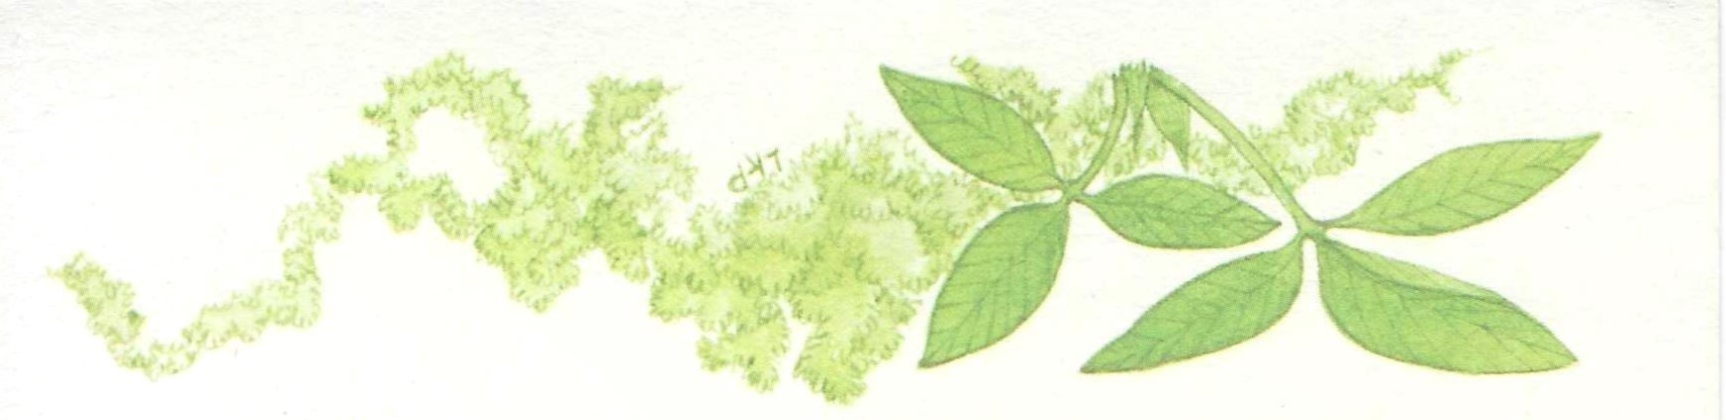
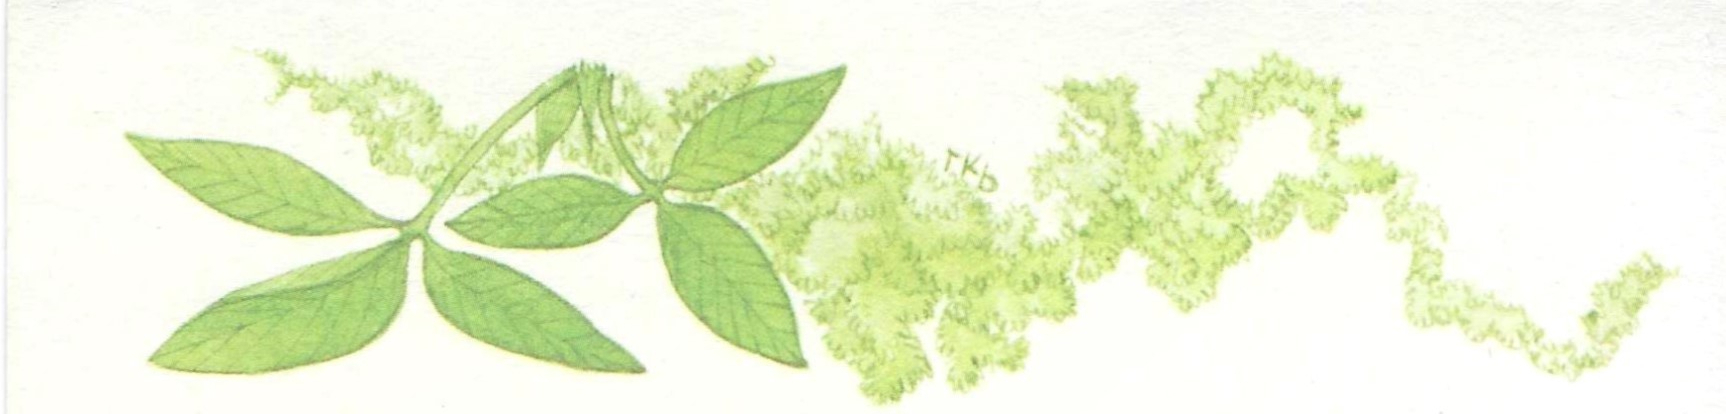
about page content

diff --git a/src/components/Home/Home.js b/src/components/Home/Home.js
@@ -1,36 +1,39 @@
 import './Home.css';
-import { fish, ladybug, embroideredstar, strawberry, lunamoth, whiteRabbit, daisiesBottom } from '../../assets/assets.js';
+import { fish, ladybug, embroideredstar, strawberry, lunamoth, whiteRabbit, daisies, daisiesBottomFlipped } from '../../assets/assets.js';
 
 export default function Home(){
     return(
-        <div className='container'>
-            <div className='headerText'>
-                <h1 id='title'>grace manning</h1>
-                <h2 id='tagline'>[tagline]</h2>
+        <div>
+            <img className='backgroundImg' src={daisies} alt='two daisies with smaller purple blooms and surrounding greenery' />
+            <div className='container homeContainer'>
+                <div className='headerText'>
+                    <h1 id='title'>grace manning</h1>
+                    <h2 id='tagline'>[tagline]</h2>
+                </div>
+                <a className='navButton' id='aboutButton' href='/about'>
+                    <img className='navImage' id='fishImage' src={fish} alt='silver fish with blue and yellow accents' />
+                    <p className='navText'>about</p>
+                </a>
+                <a className='navButton' id='projectsButton' href='/projects'>
+                    <img className='navImage' id='ladybugImage' src={ladybug} alt='' />
+                    <p className='navText'>projects</p>
+                </a>
+                <a className='navButton' id='exploreButton' href='/explore'>
+                    <img className='navImage' src={embroideredstar} alt='' />
+                    <p className='navText'>explore</p>
+                </a>
+                <a className='navButton' id='youtubeButton' href='/'>
+                    <img className='navImage' src={strawberry} alt='' />
+                    <p className='navText'>youtube</p>
+                </a>
+                <a className='navButton' id='instagramButton' href='/'>
+                    <img className='navImage' id='lunamothImage' src={lunamoth} alt='' />
+                    <p className='navText'>instagram</p>
+                </a>
+                <h2 id='contactText'>contact [at] graceis [dot] online</h2>
+                <img className='bottomBackgroundImages' id='daisiesBottom' src={daisiesBottomFlipped} alt='' />
+                <img className='bottomBackgroundImages' id='whiteRabbit' src={whiteRabbit} alt='' />
             </div>
-            <a className='navButton' id='aboutButton' href='/about'>
-                <img className='navImage' id='fishImage' src={fish} alt='silver fish with blue and yellow accents' />
-                <p className='navText'>about</p>
-            </a>
-            <a className='navButton' id='projectsButton' href='/projects'>
-                <img className='navImage' id='ladybugImage' src={ladybug} alt='' />
-                <p className='navText'>projects</p>
-            </a>
-            <a className='navButton' id='exploreButton' href='/explore'>
-                <img className='navImage' src={embroideredstar} alt='' />
-                <p className='navText'>explore</p>
-            </a>
-            <a className='navButton' id='youtubeButton' href='/'>
-                <img className='navImage' src={strawberry} alt='' />
-                <p className='navText'>youtube</p>
-            </a>
-            <a className='navButton' id='instagramButton' href='/'>
-                <img className='navImage' id='lunamothImage' src={lunamoth} alt='' />
-                <p className='navText'>instagram</p>
-            </a>
-            <h2 id='contactText'>contact [at] graceis [dot] online</h2>
-            <img className='backgroundImages' id='daisiesBottom' src={daisiesBottom} alt='' />
-            <img className='backgroundImages' id='whiteRabbit' src={whiteRabbit} alt='' />
         </div>
     )
 }

diff --git a/src/components/About/About.js b/src/components/About/About.js
@@ -1,9 +1,78 @@
 import './About.css';
+import { daisiesFlipped, daisiesBottom, envelope } from '../../assets/assets';
+
+let skills = [
+    {
+        title: 'visual',
+        list: ['touchdesigner']
+    },
+    {
+        title: 'design',
+        list: ['figma', 'photoshop']
+    },
+    {
+        title: 'web dev',
+        list: ['html', 'css', 'javascript', 'typescript', 'react', 'angular']
+    },
+    {
+        title: 'app dev',
+        list: ['flutter/dart', 'android studio', 'xcode']
+    },
+    {
+        title: 'other',
+        list: ['python', 'c++', 'c', 'java', 'racket']
+    },
+    {
+        title: 'data',
+        list: ['mysql', 'postgresql', 'mongodb', 'redis']
+    },
+    {
+        title: 'tools',
+        list: ['git/github', 'aws', 'squarespace', 'wordpress']
+    }
+]
+
+let likes = ['web development', 'like1', 'this is another', 'short', 'this is a long one'];
 
 export default function About(){
     return(
-        <div className='container'>
-            <h1>about page</h1>
+        <div>
+            <img className='backgroundImg flipped' id='daisies' src={daisiesFlipped} alt='two daisies with smaller purple blooms and surrounding greenery' />
+            <img className='bottomBackgroundImages' id='daisiesBottom' src={daisiesBottom} alt='' />
+            <div className='container aboutContainer'>
+                <div className='aboutText'>
+                    <h2>about me</h2>
+                    <h1>grace manning</h1>
+                    <p style={{marginTop: '10px'}}>
+                        Lorem ipsum dolor sit amet, consectetur adipiscing elit. Mauris sit amet pulvinar nibh. Curabitur scelerisque orci et scelerisque sollicitudin.
+                    </p>
+                </div>
+                <div className='aboutText emailBox'>
+                    <img id='envelope' src={envelope} />
+                    <p id='aboutEmail'>
+                        <b>contact [at] graceis [dot] online</b>
+                    </p>
+                </div>
+                <div className='aboutText'>
+                    <h3>my favorite things include:</h3>
+                    <ul id='likes'>
+                        {likes.map(like => <li key={like}>{like}</li>)}
+                    </ul>
+                </div>
+                <div className='aboutText'>
+                    <h3>what i can do:</h3>
+                    {skills.map((item) =>{
+                    return(
+                        <div className='skills' key={item.title}>
+                            <p style={{padding: '0px'}}>{item.title}</p>
+                            <ul className='skillsList'>
+                                {item.list.map(skill => <li key={skill}>{skill}</li>)}
+                            </ul>
+                        </div>
+                    )
+                    })}
+                </div>
+            </div>
         </div>
     )
 }

diff --git a/src/components/About/About.css b/src/components/About/About.css
@@ -1,0 +1,99 @@
+.aboutContainer{
+    font-family: "Lacquer", system-ui;
+    text-align: left;
+    width: 70vw;
+}
+
+.aboutText{
+    margin-left: 40px;
+    margin-top: 20px;
+    margin-bottom: 20px;
+    width: 80%;
+}
+
+.emailBox{
+    display: flex;
+    flex-direction: row;
+    align-items: center;
+    border-radius: 10px;
+    padding: 10px;
+    background-color: #ECD5E5;
+    width: fit-content;
+}
+
+#envelope{
+    width: 70px;
+    transform: rotate(-10deg);
+    margin-right: 5px;
+}
+
+#aboutEmail{
+    font-size: 28px;
+}
+
+.aboutText h1{
+    font-size: 50px;
+    margin: 0px;
+}
+
+.aboutText h2{
+    font-size: 30px;
+    margin: 0px;
+}
+
+.aboutText h3{
+    font-size: 28px;
+    margin: 0px;
+}
+
+.aboutText p{
+    font-size: 22px;
+    margin: 0px;
+}
+
+.aboutText ul{
+    list-style-type: none;
+    padding: 0px;
+    margin: 5px 0px;
+
+    display: flex;
+    flex-direction: row;
+    flex-wrap: wrap;
+}
+
+.aboutText li{
+    font-size: 22px;
+    width: fit-content;
+    
+    border-radius: 10px;
+    padding: 5px;
+    margin: 0px 5px 5px 0px;
+}
+
+.skills{
+    display: flex;
+    flex-direction: row;
+    align-items: center;
+}
+
+.skills p{
+    margin-right: 10px;
+}
+
+.skillsList li{
+    border: 1px solid black;
+}
+
+#likes li{
+    background-color: #DCE7B2;
+}
+
+#daisies{
+    width: 50%;
+}
+
+#daisiesBottom{
+    width: 45%;
+    right: auto;
+    left: 0;
+}

diff --git a/src/assets/assets.js b/src/assets/assets.js
@@ -5,14 +5,19 @@ import strawberry from './strawberry.png';
 import lunamoth from './lunamoth.png';
 import newspaper from './newspaper.jpg';
 import daisies from './daisies.jpg';
+import daisiesFlipped from './daisiesFlipped.jpg';
 import daisiesBottom from './daisiesBottom.jpg';
+import daisiesBottomFlipped from './daisiesBottomFlipped.jpg';
 import whiteRabbit from './white-rabbit.png';
+import envelope from './envelope.png';
 
 export{
     // BACKGROUND IMAGE
     newspaper,
     daisies,
+    daisiesFlipped,
     daisiesBottom,
+    daisiesBottomFlipped,
     whiteRabbit,
 
     // HOME PAGE ICONS
@@ -21,5 +26,8 @@ export{
     embroideredstar,
     strawberry,
     lunamoth,
+
+    // ABOUT PAGE
+    envelope
     
 }

diff --git a/src/App.js b/src/App.js
@@ -1,5 +1,4 @@
 import './App.css';
-import { daisies } from './assets/assets';
 import { Routes, Route } from 'react-router-dom';
 import Home from './components/Home/Home';
 import About from './components/About/About';
@@ -13,7 +12,6 @@ function App() {
         <Route path="/about" element={<About/>} />
         <Route path="*" element={<PageNotFound/>} />
       </Routes>
-      <img className='backgroundImg' src={daisies} alt='two daisies with smaller purple blooms and surrounding greenery' />
     </div>
   );
 }

diff --git a/src/index.css b/src/index.css
@@ -13,12 +13,33 @@ body {
   margin: 0;
   width: 100vw;
   height: 100vh;
+  overflow-x: hidden;
 }
 
 .container{
   position: absolute;
   z-index: 1;
-  width: 100vw;
-  height: 100vh;
-  overflow: hidden;
+  min-width: 100vw;
+  min-height: 100vh;
+}
+
+.backgroundImg{
+  position: absolute;
+  z-index: 0;
+  top: 0;
+  left: 0;
+  height: 100%;
+  opacity: 0.6;
+}
+
+.flipped{
+  left: auto;
+  right: 0;
+}
+
+.bottomBackgroundImages{
+  z-index: 0;
+  position: absolute;
+  right: 0;
+  bottom: 0;
 }

diff --git a/src/components/Home/Home.css b/src/components/Home/Home.css
@@ -1,3 +1,7 @@
+.homeContainer{
+    overflow: hidden;
+}
+
 .headerText{
     position: absolute;
     top: 10%;
@@ -90,13 +94,6 @@
     position: absolute;
     bottom: 40px;
     font-size: 30px;
-}
-
-.backgroundImages{
-    z-index: 0;
-    position: absolute;
-    right: 0;
-    bottom: 0;
 }
 
 #daisiesBottom{

diff --git a/src/App.css b/src/App.css
@@ -1,14 +1,4 @@
-.backgroundImg{
-  z-index: 0;
-  position: absolute;
-  top: 0;
-  left: 0;
-  height: 100%;
-  opacity: 0.6;
-}
-
 .App {
-  position: relative;
   margin: 0;
   text-align: center;
   width: 100vw;
